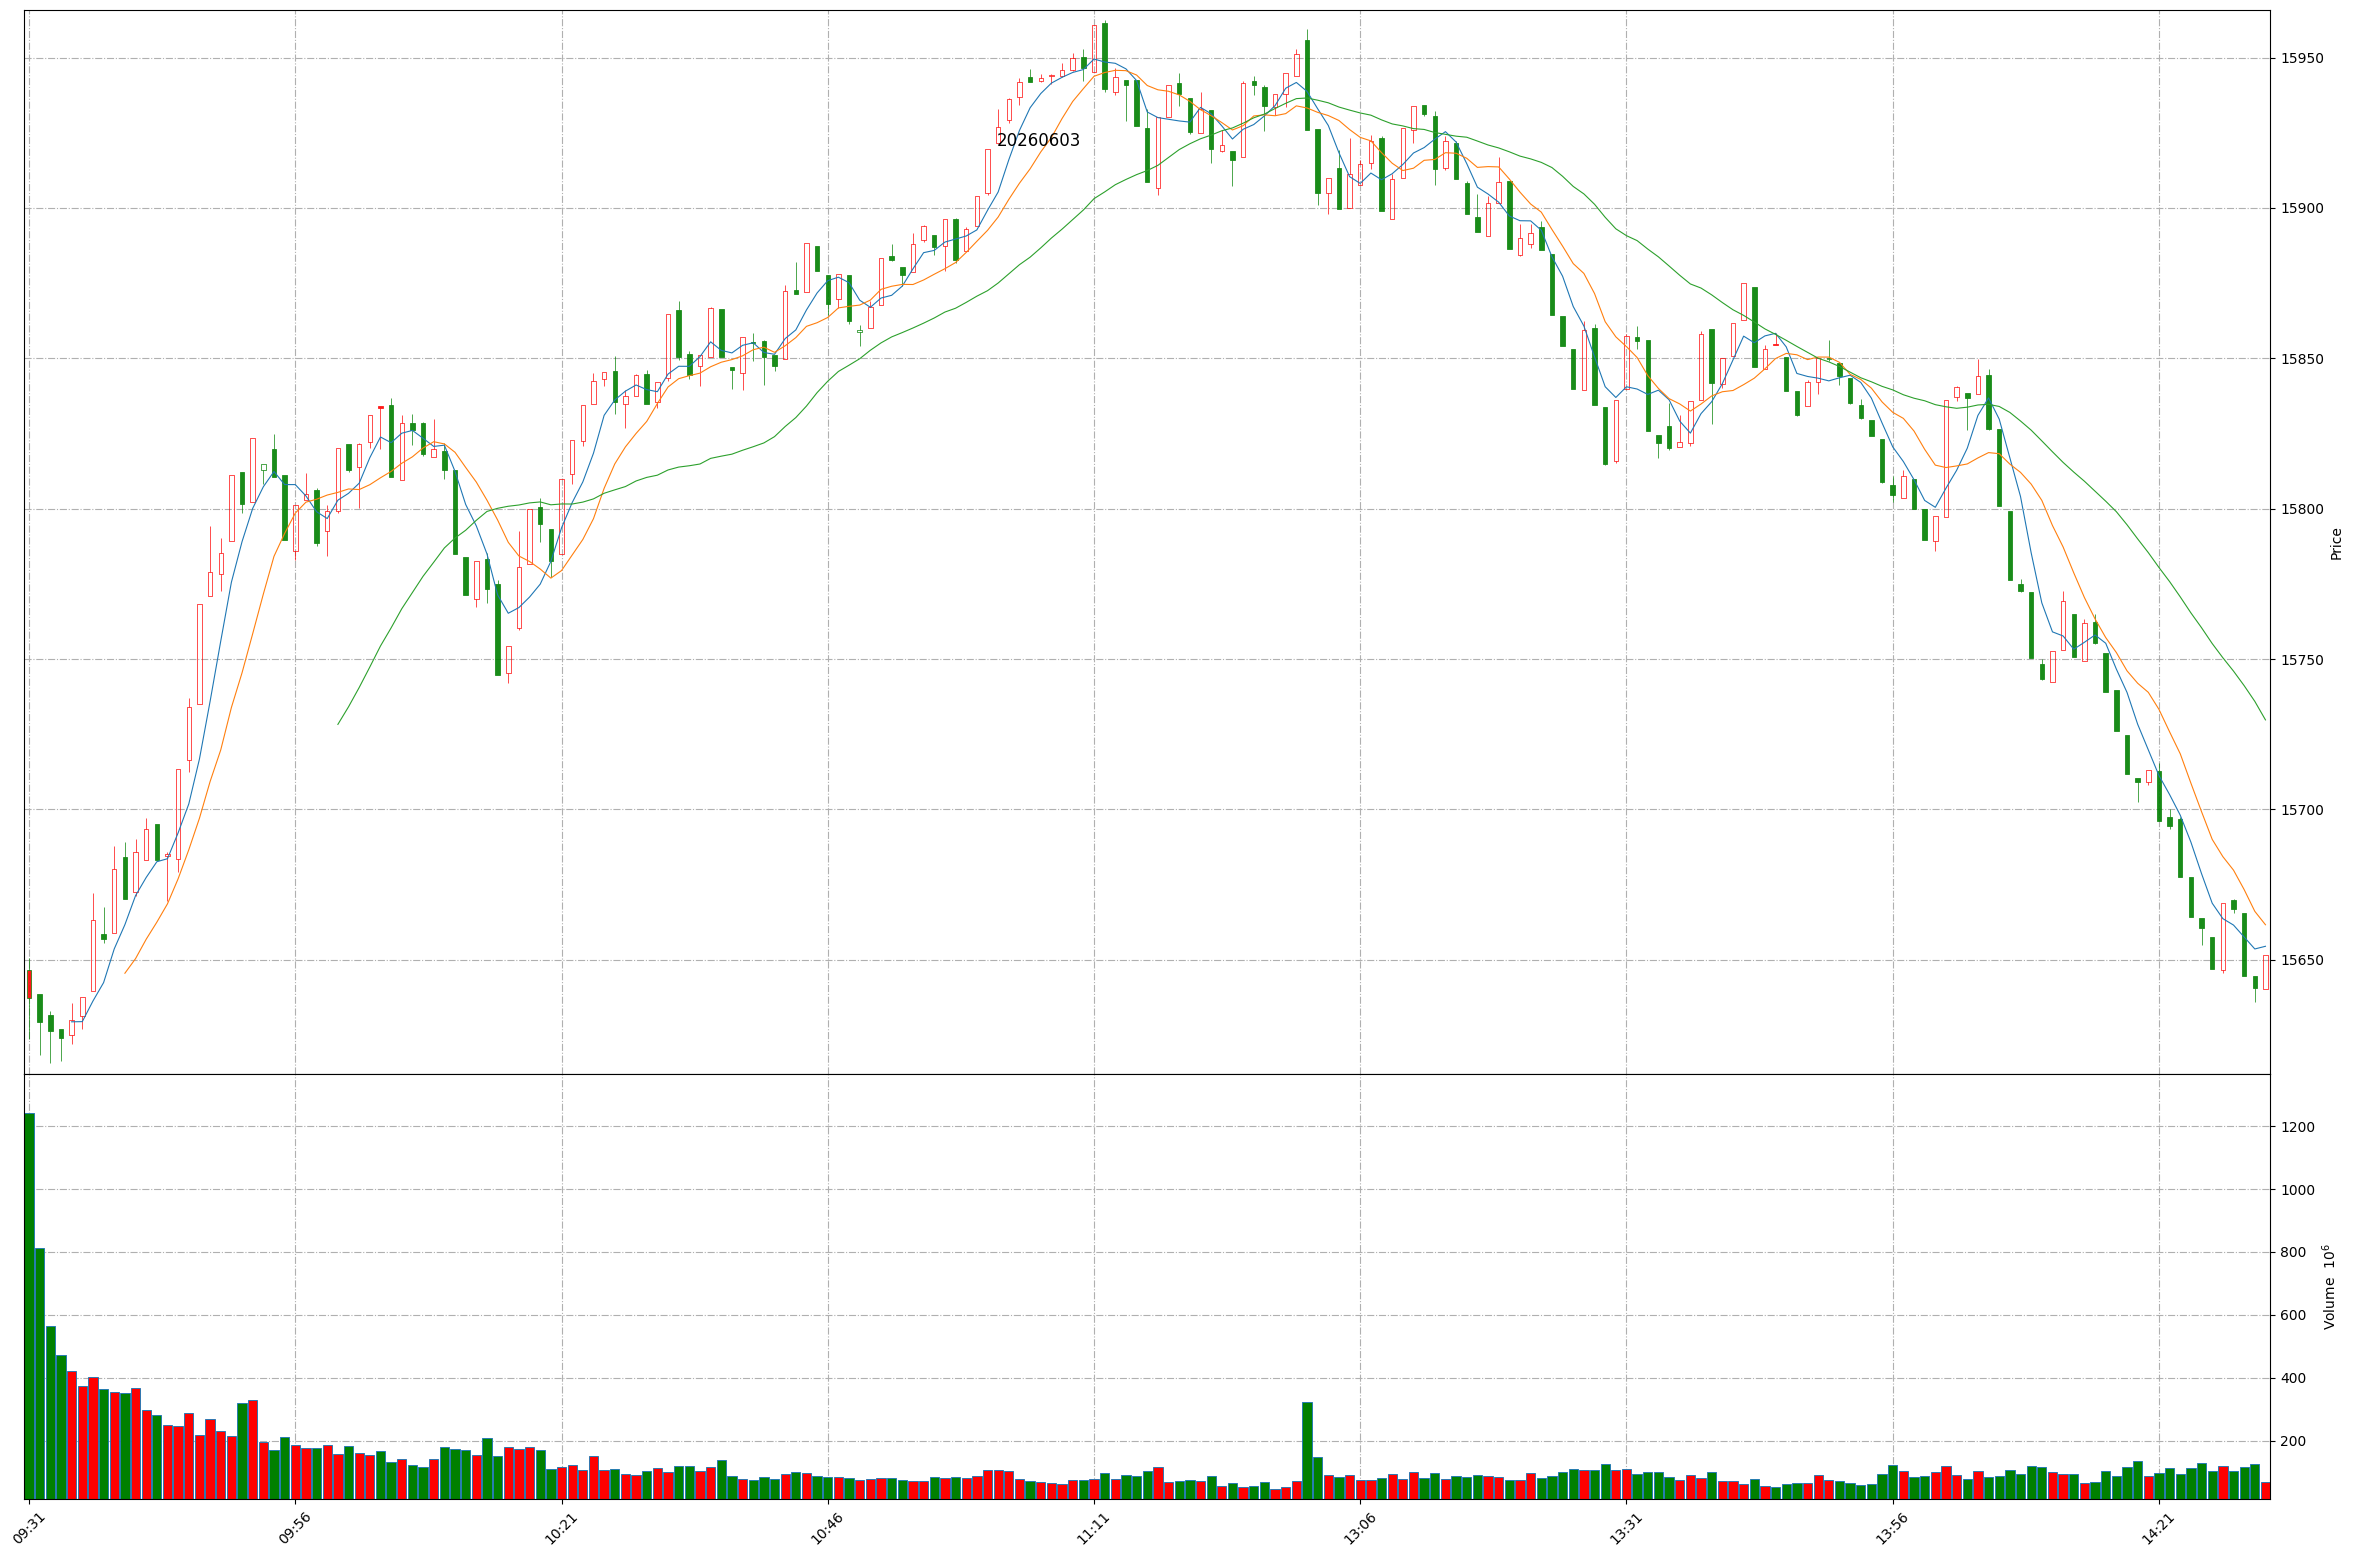
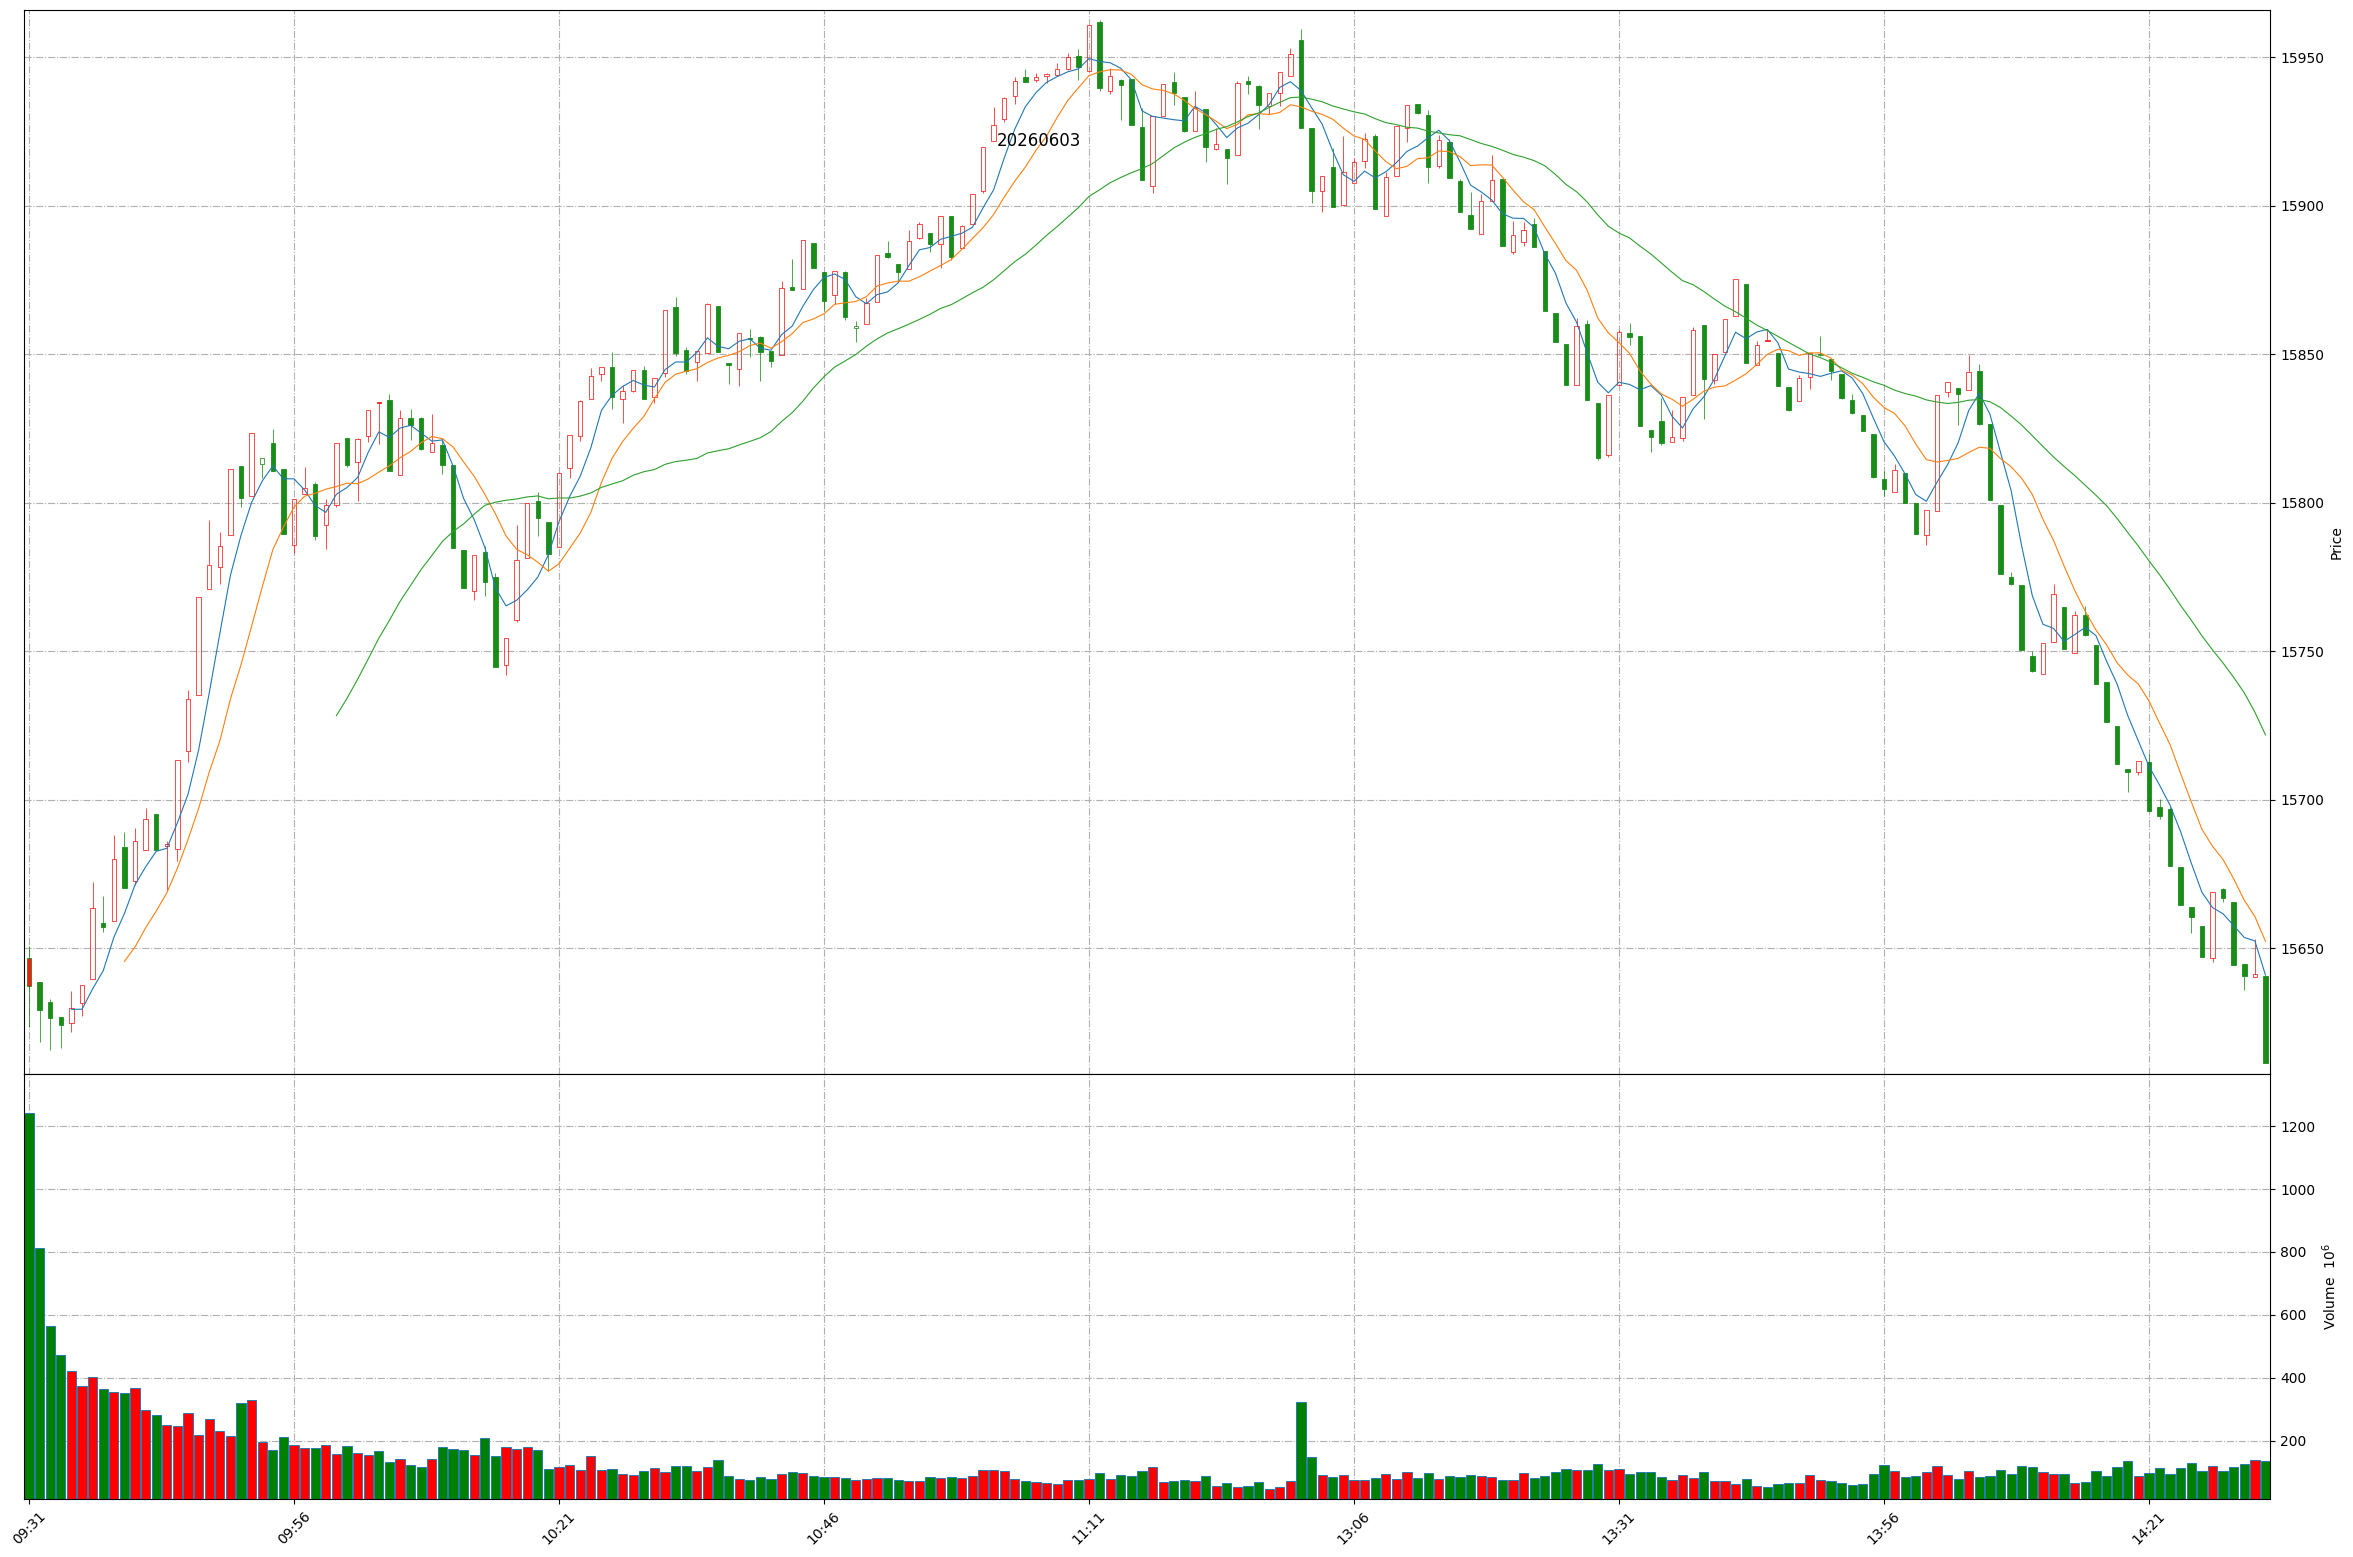
Github action update at 2026-06-03 14:32:18.

diff --git a/README.md b/README.md
@@ -1,11 +1,11 @@
 
 # Daily-A-share-market-quotes 每日 A 股指数（5min 更新）- 20260603
 
-### 上证指数 20260603 14:30
+### 上证指数 20260603 14:32
 ![](./fig/2026/6/20260603-sh000001.png)
 
-### 深证成指 20260603 14:30
+### 深证成指 20260603 14:32
 ![](./fig/2026/6/20260603-sz399001.png)
 
-### 北证50 20260603 14:30
+### 北证50 20260603 14:32
 ![](./fig/2026/6/20260603-bj899050.png)
